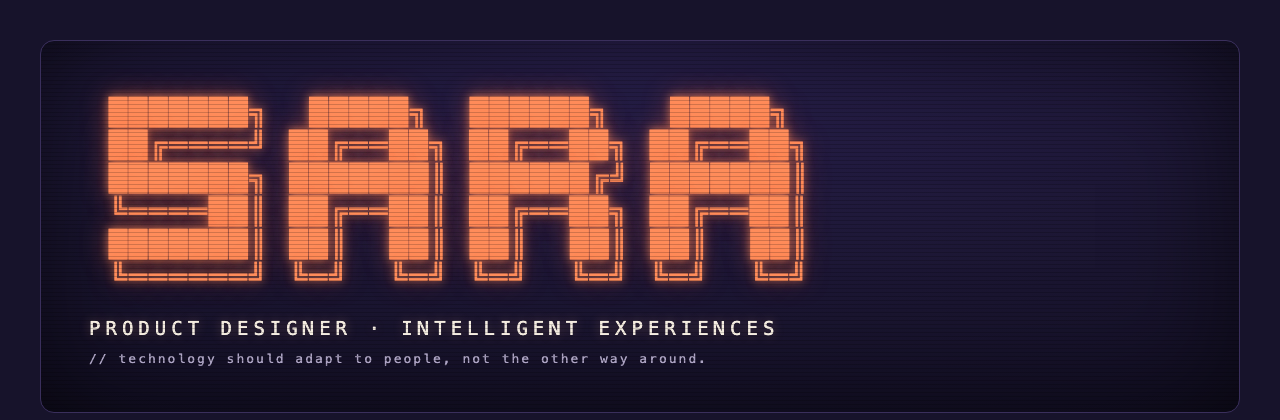
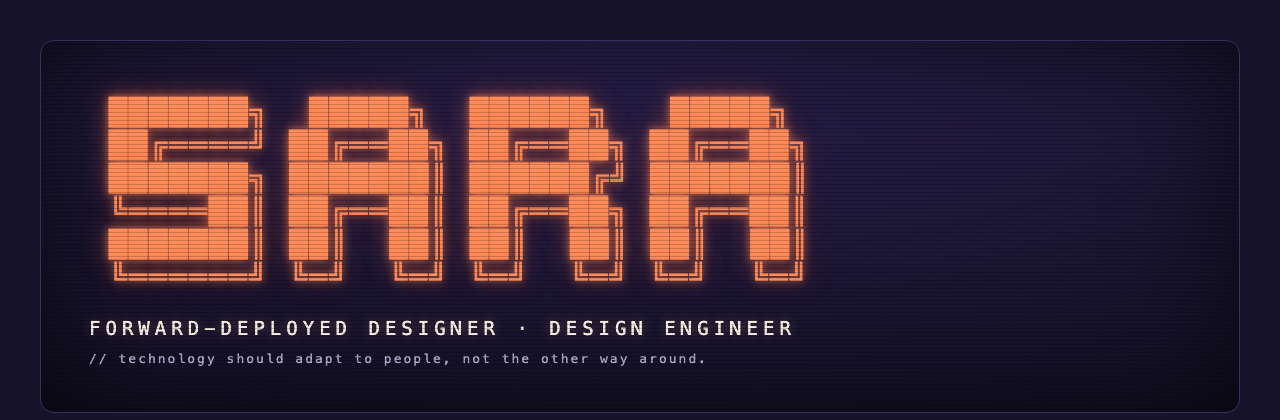
Restore forward-deployed designer title, remove mismatched cartoon section
Keep Sara's forward-deployed designer & design engineer title per her
call. Drop the cartoonized portfolio-hero section — its soft pastel
illustration style clashed with the terminal/ASCII language used
everywhere else on the page. Fix leftover green badges in find-me and
footer that were missed in the purple/coral repaint, so the whole
page is now one consistent system.

Changed region(s): [[0.2812, 0.7429, 0.625, 0.8048], [0.0625, 0.7429, 0.1562, 0.8048], [0.1875, 0.7738, 0.25, 0.8048]]

diff --git a/README.md b/README.md
@@ -1,5 +1,5 @@
 <p align="center">
-  <img src="assets/banner.png" width="100%" alt="Sara Khalil — Product Designer, Intelligent Experiences" />
+  <img src="assets/banner.png" width="100%" alt="Sara Khalil — Forward-Deployed Designer & Design Engineer" />
 </p>
 
 ## ▓▓▓ whoami
@@ -55,7 +55,7 @@
 
 ```text
 $ whoami
-sara khalil — product designer, intelligent experiences
+sara khalil — forward-deployed designer & design engineer
 leading design for search & discovery @ landmark digital
 
 $ cat philosophy.txt
@@ -71,21 +71,11 @@ $ cat about.txt
 # product strategy through systems, interaction design,
 # prototyping, and execution.
 #
-# I craft products that do more than respond — using context,
-# data, personalization, automation, and AI to help people
-# make better decisions, with less effort, toward better
-# outcomes.
-```
-
-## ▓▓▓ currently building
-
-<p align="center">
-  <img src="assets/hero-cartoon.png" width="100%" alt="I design intelligent products that people love and businesses grow with — cartoonized portfolio hero" />
-</p>
-
-```text
-# the portfolio homepage — intelligent product design,
-# shipped with code, not just mockups.
+# I don't hand off a file and walk away. I embed with the
+# problem — close to the people who have it: stakeholders
+# and real users. I bridge disciplines at the idea stage —
+# design × engineering × product — then I design it,
+# build it, and ship it myself.
 ```
 
 ## ▓▓▓ how I work
@@ -162,8 +152,8 @@ $ cat about.txt
 # say hello.
 ```
 
-[![LinkedIn](https://img.shields.io/badge/LinkedIn-0d1117?style=flat-square&logo=linkedin&logoColor=39ff87&labelColor=0d1117)](https://www.linkedin.com/in/sara-eldebissy/)
-[![X](https://img.shields.io/badge/Twitter-0d1117?style=flat-square&logo=x&logoColor=39ff87&labelColor=0d1117)](https://x.com/SaraEldebissy)
-[![Figma](https://img.shields.io/badge/Figma-0d1117?style=flat-square&logo=figma&logoColor=39ff87&labelColor=0d1117)](https://www.figma.com/@saraeldebissy)
+[![LinkedIn](https://img.shields.io/badge/LinkedIn-1a1530?style=flat-square&logo=linkedin&logoColor=ff8c5a&labelColor=1a1530)](https://www.linkedin.com/in/sara-eldebissy/)
+[![X](https://img.shields.io/badge/Twitter-1a1530?style=flat-square&logo=x&logoColor=ff8c5a&labelColor=1a1530)](https://x.com/SaraEldebissy)
+[![Figma](https://img.shields.io/badge/Figma-1a1530?style=flat-square&logo=figma&logoColor=ff8c5a&labelColor=1a1530)](https://www.figma.com/@saraeldebissy)
 
-<sub>━━━  designed & vibe-coded by sara · intelligent experiences  ━━━</sub>
+<sub>━━━  designed & vibe-coded by sara · forward-deployed  ━━━</sub>
